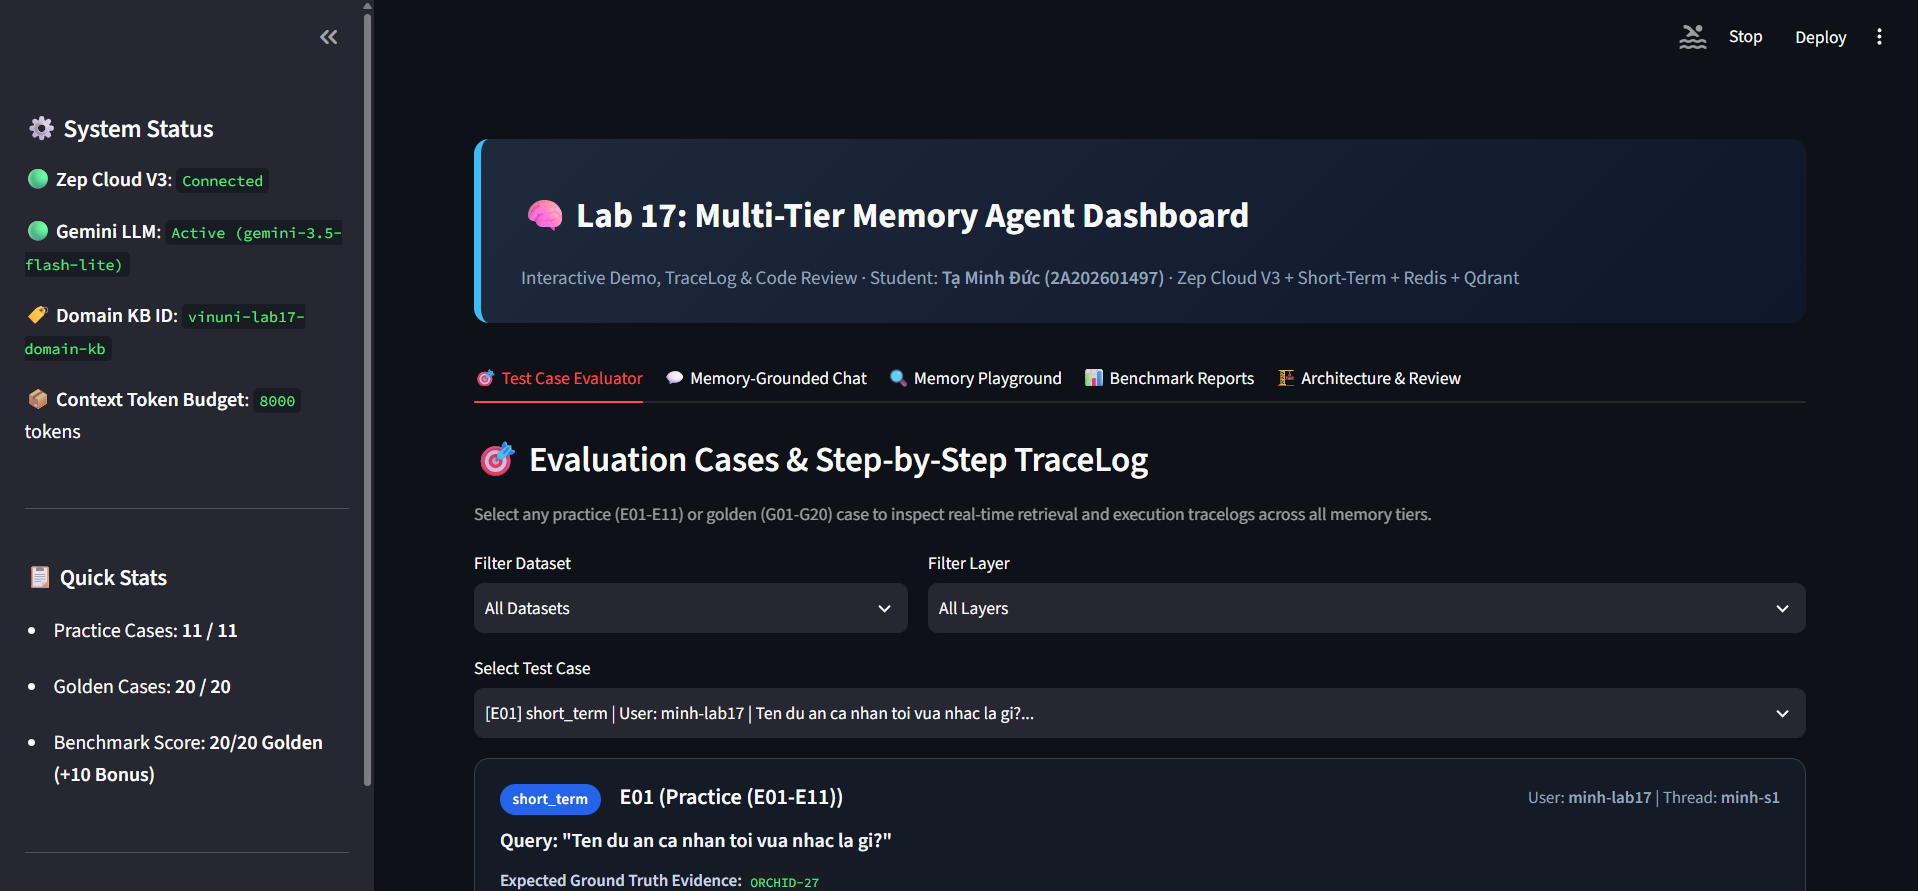
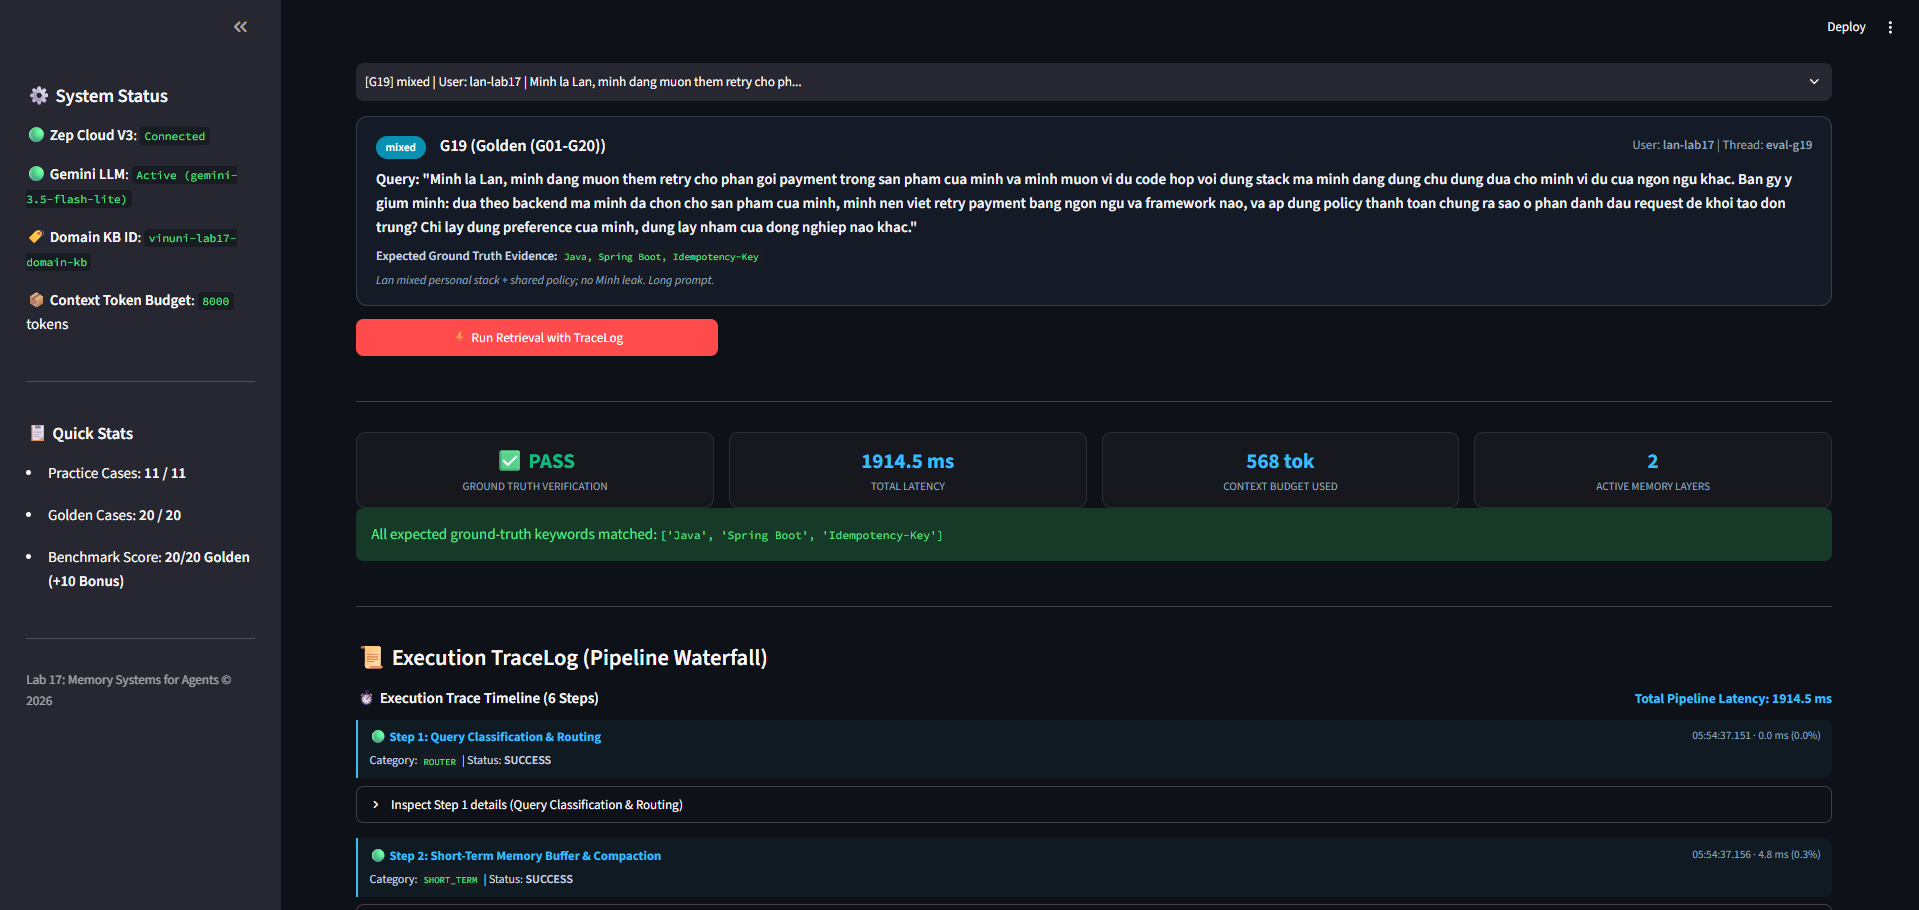
Complete Lab Class

Changed region(s): [[0.0, 0.0, 0.9844, 1.0], [0.7998, 0.8788, 0.9228, 0.9091], [0.0308, 0.5152, 0.0923, 0.5758]]

diff --git a/reports/golden_benchmark.md b/reports/golden_benchmark.md
@@ -5,32 +5,32 @@
 - Cases: **20**
 - Passed: **20/20**
 - Evidence hit rate: **100.0%**
-- Average retrieval latency: **1381.7 ms**
-- Average token reduction vs full source context: **8.7%**
+- Average retrieval latency: **1404.3 ms**
+- Average token reduction vs full source context: **6.3%**
 - Golden bonus: **10/10** (100% required)
 
 | Case | Layer | Pass | Latency ms | Retrieved tokens | Token reduction | Missing / Error |
 | --- | --- | --- | ---: | ---: | ---: | --- |
 | G01 | short_term | PASS | 0.2 | 227 | 0.0% |  |
 | G02 | short_term | PASS | 0.0 | 133 | 0.0% |  |
-| G08 | long_term | PASS | 3873.5 | 831 | 0.0% |  |
-| G09 | long_term | PASS | 1807.0 | 1618 | 0.0% |  |
-| G12 | semantic | PASS | 397.5 | 365 | 20.5% |  |
-| G14 | semantic | PASS | 1812.7 | 217 | 43.9% |  |
-| G15 | semantic | PASS | 731.3 | 217 | 52.7% |  |
-| G19 | mixed | PASS | 1744.0 | 581 | 0.0% |  |
-| G03 | long_term | PASS | 1831.9 | 1603 | 0.0% |  |
-| G04 | long_term | PASS | 1672.6 | 1621 | 0.0% |  |
-| G05 | long_term | PASS | 1858.2 | 1653 | 0.0% |  |
-| G10 | episodic | PASS | 395.3 | 454 | 0.0% |  |
-| G11 | episodic | PASS | 322.3 | 454 | 0.0% |  |
-| G13 | semantic | PASS | 276.5 | 363 | 35.8% |  |
-| G16 | mixed | PASS | 2456.3 | 581 | 0.0% |  |
-| G18 | mixed | PASS | 497.8 | 489 | 13.5% |  |
-| G20 | mixed | PASS | 2314.9 | 831 | 0.0% |  |
-| G06 | long_term | PASS | 1670.5 | 1698 | 0.0% |  |
-| G07 | long_term | PASS | 1809.9 | 1643 | 0.0% |  |
-| G17 | mixed | PASS | 2160.8 | 581 | 8.1% |  |
+| G08 | long_term | PASS | 3969.4 | 929 | 0.0% |  |
+| G09 | long_term | PASS | 3166.2 | 1700 | 0.0% |  |
+| G12 | semantic | PASS | 261.2 | 418 | 8.9% |  |
+| G14 | semantic | PASS | 313.0 | 270 | 30.2% |  |
+| G15 | semantic | PASS | 278.6 | 270 | 41.2% |  |
+| G19 | mixed | PASS | 2109.1 | 581 | 0.0% |  |
+| G03 | long_term | PASS | 2049.6 | 1684 | 0.0% |  |
+| G04 | long_term | PASS | 1719.0 | 1712 | 0.0% |  |
+| G05 | long_term | PASS | 2247.3 | 1700 | 0.0% |  |
+| G10 | episodic | PASS | 272.6 | 650 | 0.0% |  |
+| G11 | episodic | PASS | 274.1 | 676 | 0.0% |  |
+| G13 | semantic | PASS | 923.8 | 416 | 26.4% |  |
+| G16 | mixed | PASS | 2092.9 | 581 | 0.0% |  |
+| G18 | mixed | PASS | 521.8 | 500 | 11.5% |  |
+| G20 | mixed | PASS | 2623.5 | 831 | 0.0% |  |
+| G06 | long_term | PASS | 1797.3 | 1659 | 0.0% |  |
+| G07 | long_term | PASS | 1679.3 | 1640 | 0.0% |  |
+| G17 | mixed | PASS | 1786.5 | 581 | 8.1% |  |
 
 ## Evidence excerpts
 
@@ -44,7 +44,7 @@
 
 ### G08 - long_term
 
-`<USER_SUMMARY> Lan's project is LOTUS-88. They prioritize Java and Spring Boot for backend development and do not use Python. </USER_SUMMARY>  <EPISODES> Episodes are source message or document excerpts shown in selection order.   - Created At: 2026-08-01 11:00:00     Source: message     Content: [user] {   "user_id": "lan-lab17",   "first_name": "Lan",   "last_name": "Tran",   "user_alias": "Lan Tran" }: Toi la Lan. Du an cua toi la LOTUS-88. Toi uu tien Java va Spring Boot, va khong dung Python trong vi du backend.   - Created At: 2026-08-01 11:00:20     Source: message     Content: Lab Assistant (assistant): Da hieu: LOTUS-88, Java + Spring Boot cho backend examples. </EPISODES>  <FACTS> `
+`<USER_SUMMARY> Lan's project is LOTUS-88. They prioritize Java and Spring Boot for backend development and do not use Python. </USER_SUMMARY>  <EPISODES> Episodes are source message or document excerpts shown in selection order.   - Created At: 2026-08-17 05:18:24     Source: message     Content: [user] {   "user_id": "lan-lab17",   "first_name": "Lan",   "last_name": "Tran",   "user_alias": "Evaluation User" }: Minh la Lan, minh dang muon them retry cho phan goi payment trong san pham cua minh va minh muon vi du code hop voi dung stack ma minh dang dung chu dung dua cho minh vi du cua ngon ngu khac. Ban gy y gium minh: dua theo backend ma minh da chon cho san pham cua minh, minh nen viet re`
 
 ### G09 - long_term
 
@@ -64,7 +64,7 @@
 
 ### G19 - mixed
 
-`<LONG_TERM> <USER_SUMMARY> Lan's project is LOTUS-88. They prioritize Java and Spring Boot for backend development and do not use Python. </USER_SUMMARY>  <EPISODES> Episodes are source message or document excerpts shown in selection order.   - Created At: 2026-08-01 11:00:00     Source: message     Content: [user] {   "user_id": "lan-lab17",   "first_name": "Lan",   "last_name": "Tran",   "user_alias": "Lan Tran" }: Toi la Lan. Du an cua toi la LOTUS-88. Toi uu tien Java va Spring Boot, va khong dung Python trong vi du backend.   - Created At: 2026-08-01 11:00:20     Source: message     Content: Lab Assistant (assistant): Da hieu: LOTUS-88, Java + Spring Boot cho backend examples. </EPISODE`
+`<LONG_TERM> <USER_SUMMARY> Lan's project is LOTUS-88. They prioritize Java and Spring Boot for backend development and do not use Python. </USER_SUMMARY>  <EPISODES> Episodes are source message or document excerpts shown in selection order.   - Created At: 2026-08-17 05:26:43     Source: message     Content: [user] {   "user_id": "lan-lab17",   "first_name": "Lan",   "last_name": "Tran",   "user_alias": "Evaluation User" }: Lan uu tien stack backend nao cho LOTUS-88?   - Created At: 2026-08-01 11:00:20     Source: message     Content: Lab Assistant (assistant): Da hieu: LOTUS-88, Java + Spring Boot cho backend examples. </EPISODES>  <FACTS> The timestamp shown for each fact is the reference `
 
 ### G03 - long_term
 
@@ -80,11 +80,11 @@
 
 ### G10 - episodic
 
-`EPISODE: Ten du an ca nhan cua toi la ORCHID-27. Toi thich Python va khong thich Java. Khi giai thich code, hay dung vi du ngan. EPISODE: Da hieu: demo ca nhan ORCHID-27, uu tien Python, tranh Java, vi du ngan. EPISODE: Toi dang hoc async/await va hay nham coroutine voi Task. Neu sau nay gap chu de nay, hay giai thich bang timeline. EPISODE: Toi se uu tien timeline khi giai thich coroutine va Task. EPISODE: TODO: hoan thanh benchmark report truoc thu Sau luc 16:00. Day la open loop LAB-REPORT-1600. EPISODE: Hom nay toi debug async HTTP. Toi da thu tang timeout len 60s nhung van fail. EPISODE: Hay kiem tra connection pool, lifecycle cua client va concurrency. EPISODE: Cach hieu qua la reuse a`
+`EPISODE: Toi dang hoc async/await va hay nham coroutine voi Task. Neu sau nay gap chu de nay, hay giai thich bang timeline. EPISODE: Hom nay toi debug async HTTP. Toi da thu tang timeout len 60s nhung van fail. EPISODE: Cach hieu qua la reuse aiohttp ClientSession va dat concurrency=20. Reflection: loi chinh la connection churn, khong phai timeout threshold. Ma su co ASYNC-FIX-20. EPISODE: Da ghi nhan trajectory: increase timeout khong hieu qua; ClientSession + concurrency=20 giai quyet connection churn. EPISODE: Minh dang ngoi mot minh viet cho xong cai ham retry cho POST payment de toi nay demo, va minh muon no vua dung dung ngon ngu ma minh thich khi lam viec ca nhan, vua bam sat dung po `
 
 ### G11 - episodic
 
-`EPISODE: Ten du an ca nhan cua toi la ORCHID-27. Toi thich Python va khong thich Java. Khi giai thich code, hay dung vi du ngan. EPISODE: Da hieu: demo ca nhan ORCHID-27, uu tien Python, tranh Java, vi du ngan. EPISODE: Toi dang hoc async/await va hay nham coroutine voi Task. Neu sau nay gap chu de nay, hay giai thich bang timeline. EPISODE: Toi se uu tien timeline khi giai thich coroutine va Task. EPISODE: TODO: hoan thanh benchmark report truoc thu Sau luc 16:00. Day la open loop LAB-REPORT-1600. EPISODE: Hom nay toi debug async HTTP. Toi da thu tang timeout len 60s nhung van fail. EPISODE: Hay kiem tra connection pool, lifecycle cua client va concurrency. EPISODE: Cach hieu qua la reuse a`
+`EPISODE: Toi dang hoc async/await va hay nham coroutine voi Task. Neu sau nay gap chu de nay, hay giai thich bang timeline. EPISODE: Cach hieu qua la reuse aiohttp ClientSession va dat concurrency=20. Reflection: loi chinh la connection churn, khong phai timeout threshold. Ma su co ASYNC-FIX-20. EPISODE: Da ghi nhan trajectory: increase timeout khong hieu qua; ClientSession + concurrency=20 giai quyet connection churn. EPISODE: Cap nhat moi: voi du an cong ty BLUEBIRD-42, backend bat buoc dung TypeScript voi NestJS; khong dung Python cho backend du an nay. Preference Python van dung cho demo ca nhan ORCHI EPISODE: Minh dang ngoi mot minh viet cho xong cai ham retry cho POST payment de toi na`
 
 ### G13 - semantic
 
@@ -96,7 +96,7 @@
 
 ### G18 - mixed
 
-`<EPISODIC> EPISODE: Ten du an ca nhan cua toi la ORCHID-27. Toi thich Python va khong thich Java. Khi giai thich code, hay dung vi du ngan. EPISODE: Da hieu: demo ca nhan ORCHID-27, uu tien Python, tranh Java, vi du ngan. EPISODE: Toi dang hoc async/await va hay nham coroutine voi Task. Neu sau nay gap chu de nay, hay giai thich bang timeline. EPISODE: Toi se uu tien timeline khi giai thich coroutine va Task. EPISODE: TODO: hoan thanh benchmark report truoc thu Sau luc 16:00. Day la open loop LAB-REPORT-1600. EPISODE: Hom nay toi debug async HTTP. Toi da thu tang timeout len 60s nhung van fail. EPISODE: Hay kiem tra connection pool, lifecycle cua client va concurrency. EPISODE: Cach hieu qua`
+`<EPISODIC> EPISODE: Ten du an ca nhan cua toi la ORCHID-27. Toi thich Python va khong thich Java. Khi giai thich code, hay dung vi du ngan. EPISODE: Toi dang hoc async/await va hay nham coroutine voi Task. Neu sau nay gap chu de nay, hay giai thich bang timeline. EPISODE: Cach hieu qua la reuse aiohttp ClientSession va dat concurrency=20. Reflection: loi chinh la connection churn, khong phai timeout threshold. Ma su co ASYNC-FIX-20. EPISODE: Cap nhat moi: voi du an cong ty BLUEBIRD-42, backend bat buoc dung TypeScript voi NestJS; khong dung Python cho backend du an nay. Preference Python van dung cho demo ca nhan ORCHI EPISODE: Toi nay minh muon viet cho tron ven cai retry payment ma vua dun`
 
 ### G20 - mixed
 
